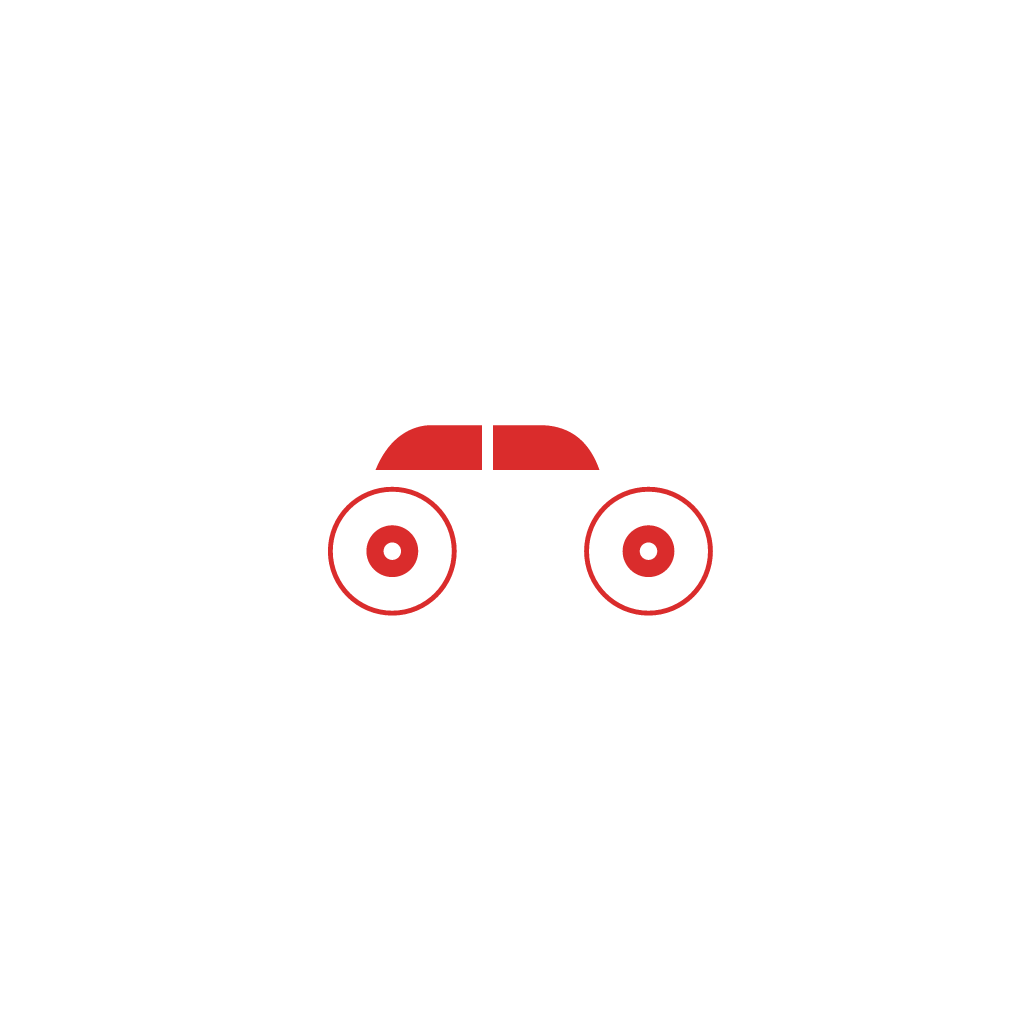
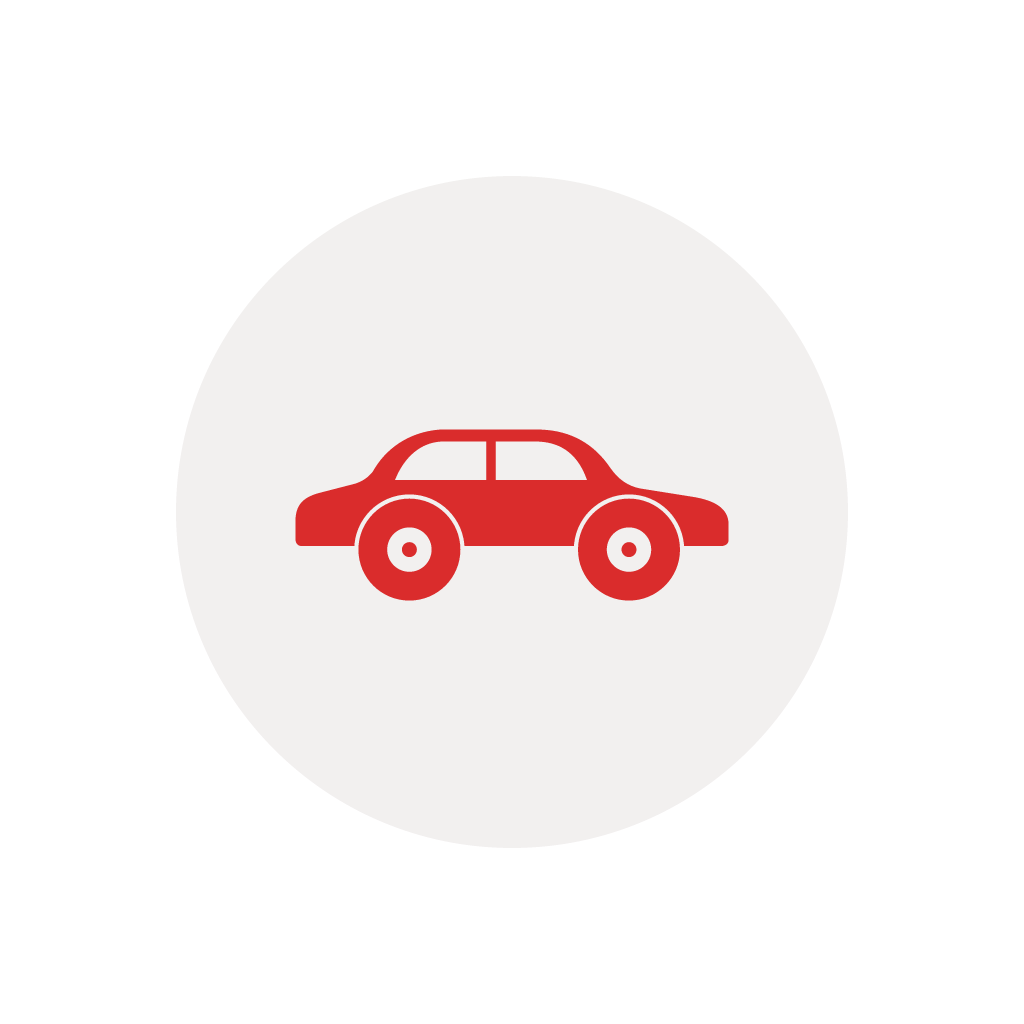
brand: adopt the canonical Inzozi identity — red car on soft circular field
- LogoMark is now the identity badge (red car centered on the #F2F0EF
  circle); wordmark defaults to dark for the app's white surfaces
- Animated splash: the badge large on a clean white canvas with dark
  wordmark — same mark from launch to onboarding to header
- Icon set regenerated from the identity: app icon (tightened crop so
  the car reads at 48px launcher size), Android adaptive foreground,
  native splash asset, favicon; splash + adaptive backgrounds -> white
- Onboarding art already used this treatment — every brand touchpoint
  now shows one mark

Changed region(s): [[0.2812, 0.4062, 0.7188, 0.625]]

diff --git a/src/components/AnimatedSplash.js b/src/components/AnimatedSplash.js
@@ -1,23 +1,21 @@
 import React, { useEffect, useRef } from 'react';
 import { Text, StyleSheet, Animated } from 'react-native';
-import { LinearGradient } from 'expo-linear-gradient';
 import { StatusBar } from 'expo-status-bar';
-import { CarGlyph } from './Logo';
-import { fonts } from '../theme';
+import { LogoMark } from './Logo';
+import { colors, fonts } from '../theme';
 
-// Branded launch moment — full-bleed brand red with the white car mark,
-// mirroring the app icon. In-app surfaces stay minimal; the splash is the
-// one place where full brand color belongs.
+// Branded launch moment — the Inzozi identity: the red car mark on its soft
+// circular field, on a clean canvas. Springs in, holds, fades into the app.
 export default function AnimatedSplash({ onFinish }) {
   const fade = useRef(new Animated.Value(0)).current;
-  const scale = useRef(new Animated.Value(0.86)).current;
+  const scale = useRef(new Animated.Value(0.85)).current;
   const container = useRef(new Animated.Value(1)).current;
 
   useEffect(() => {
     Animated.sequence([
       Animated.parallel([
         Animated.timing(fade, { toValue: 1, duration: 480, useNativeDriver: true }),
-        Animated.spring(scale, { toValue: 1, friction: 7, tension: 60, useNativeDriver: true }),
+        Animated.spring(scale, { toValue: 1, friction: 7, tension: 58, useNativeDriver: true }),
       ]),
       Animated.delay(950),
       Animated.timing(container, { toValue: 0, duration: 450, useNativeDriver: true }),
@@ -26,10 +24,9 @@ export default function AnimatedSplash({ onFinish }) {
 
   return (
     <Animated.View style={[StyleSheet.absoluteFill, styles.root, { opacity: container }]}>
-      <StatusBar style="light" />
-      <LinearGradient colors={['#E5403A', '#C11C1C']} style={StyleSheet.absoluteFill} />
+      <StatusBar style="dark" />
       <Animated.View style={{ opacity: fade, transform: [{ scale }], alignItems: 'center' }}>
-        <CarGlyph width={140} body="#FFFFFF" glass="#D42222" />
+        <LogoMark size={148} />
         <Text style={styles.word}>Inzozi Motors</Text>
         <Text style={styles.tag}>Certified · Inspected · Trusted</Text>
       </Animated.View>
@@ -38,7 +35,10 @@ export default function AnimatedSplash({ onFinish }) {
 }
 
 const styles = StyleSheet.create({
-  root: { alignItems: 'center', justifyContent: 'center', zIndex: 100, elevation: 100 },
-  word: { marginTop: 24, fontSize: 26, fontFamily: fonts.black, color: '#fff', letterSpacing: -0.5 },
-  tag: { marginTop: 10, fontSize: 12.5, fontFamily: fonts.semiBold, color: 'rgba(255,255,255,0.92)', letterSpacing: 0.4 },
+  root: {
+    alignItems: 'center', justifyContent: 'center',
+    backgroundColor: '#FFFFFF', zIndex: 100, elevation: 100,
+  },
+  word: { marginTop: 26, fontSize: 26, fontFamily: fonts.black, color: colors.textPrimary, letterSpacing: -0.5 },
+  tag: { marginTop: 10, fontSize: 12.5, fontFamily: fonts.semiBold, color: colors.textMuted, letterSpacing: 0.4 },
 });

diff --git a/src/components/Logo.js b/src/components/Logo.js
@@ -1,11 +1,12 @@
 import React from 'react';
 import { View, Text, StyleSheet } from 'react-native';
-import Svg, { Path, Circle, Rect, Defs, LinearGradient, Stop, G } from 'react-native-svg';
+import Svg, { Path, Circle, G } from 'react-native-svg';
 import { colors, fonts } from '../theme';
 
-// Shared Inzozi car silhouette (car-space ~ x:150–872, y:366–658).
-// White body with cut-out "glass" (set glass to the surrounding background).
-function CarPaths({ body = '#FFFFFF', glass = '#DA2C2C' }) {
+// The Inzozi Motors identity: the red car mark on a soft circular field.
+// Shared silhouette (car-space ~ x:150–872, y:366–658); "glass" is the
+// cut-out color — set it to whatever the mark sits on.
+function CarPaths({ body = colors.primary, glass = '#F2F0EF' }) {
   return (
     <G>
       <Path
@@ -30,7 +31,7 @@ function CarPaths({ body = '#FFFFFF', glass = '#DA2C2C' }) {
 }
 
 // Plain car glyph — car in `body` color on transparent (cut-outs = the bg it sits on).
-export function CarGlyph({ width = 120, body = '#FFFFFF', glass = colors.primary }) {
+export function CarGlyph({ width = 120, body = colors.primary, glass = '#F2F0EF' }) {
   const height = width * (312 / 742);
   return (
     <Svg width={width} height={height} viewBox="140 358 742 312">
@@ -39,21 +40,15 @@ export function CarGlyph({ width = 120, body = '#FFFFFF', glass = colors.primary
   );
 }
 
-// Badge mark — a mini app-icon (red rounded tile + white car). Reads on any background.
+// The canonical badge — red car centered on the soft circular field.
 export function LogoMark({ size = 30 }) {
   return (
     <Svg width={size} height={size} viewBox="0 0 100 100">
-      <Defs>
-        <LinearGradient id="inzoziTile" x1="0" y1="0" x2="0" y2="1">
-          <Stop offset="0" stopColor="#E5403A" />
-          <Stop offset="1" stopColor="#C11C1C" />
-        </LinearGradient>
-      </Defs>
-      <Rect x="0" y="0" width="100" height="100" rx="24" fill="url(#inzoziTile)" />
+      <Circle cx="50" cy="50" r="50" fill="#F2F0EF" />
       <G transform="translate(50, 51)">
-        <G transform="scale(0.104)">
+        <G transform="scale(0.082)">
           <G transform="translate(-511, -512)">
-            <CarPaths body="#FFFFFF" glass="#D42222" />
+            <CarPaths body={colors.primary} glass="#F2F0EF" />
           </G>
         </G>
       </G>
@@ -61,7 +56,7 @@ export function LogoMark({ size = 30 }) {
   );
 }
 
-export default function Logo({ size = 18, color = '#fff' }) {
+export default function Logo({ size = 18, color = colors.textPrimary }) {
   return (
     <View style={styles.row}>
       <LogoMark size={size + 12} />
